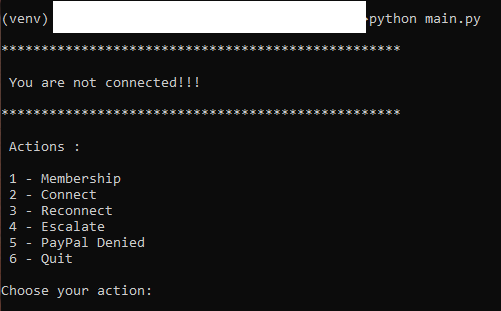
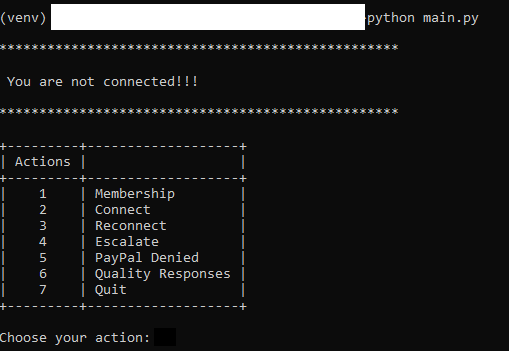
readme and small corrections

diff --git a/paypal_denied.py b/paypal_denied.py
@@ -7,7 +7,7 @@ language = {
 "MX": ["Mexico", "LifePoints - Pedido de recompensa de PayPal cancelado - "],
 "AR": ["Argentina", "LifePoints - Pedido de recompensa de PayPal cancelado - "],
 "CO": ["Colombia", "LifePoints - Pedido de recompensa de PayPal cancelado - "],
-"PE": ["Pedu", "LifePoints - Pedido de recompensa de PayPal cancelado - "],
+"PE": ["Peru", "LifePoints - Pedido de recompensa de PayPal cancelado - "],
 "US - EN": ["USA - English", "LifePoints - PayPal Reward Order Canceled - "],
 "DE": ["Germany", "LifePoints - PayPal-Prämienbestellung storniert - "],
 "AT": ["Austria", "LifePoints - PayPal-Prämienbestellung storniert - "],
@@ -44,7 +44,7 @@ def paypal_denied(driver, zendesk, cint, tab_zendesk, tab_cint):
                     
                 break
                 
-            print("Please incert correct input!\n")
+            print("Please insert correct input!\n")
             
         if handle == "quit":
             print("See you next time beautiful !!\n")
@@ -73,7 +73,7 @@ def paypal_denied(driver, zendesk, cint, tab_zendesk, tab_cint):
         order_num = input("\n Please insert Order Number:   ")
         order_num.strip()
         if order_num == "":
-            print("\n No order number incerted , canceling operation...\n ")
+            print("\n No order number inserted , canceling operation...\n ")
             continue
         driver.close()
         driver.switch_to.window(tab_zendesk)

diff --git a/membership.py b/membership.py
@@ -20,7 +20,7 @@ def membership_procedure(driver, zendesk, cint, datatool, handle_membership, tab
         psReason = "0"
         while True:
             options = ["y", "n", "quit", "i"]
-            handle = input("Handle thise Ticket ? y / n or quit: ")
+            handle = input("Handle this Ticket ? y / n or quit: ")
             print("")
             if handle in options:
                 if handle == "n":
@@ -29,7 +29,7 @@ def membership_procedure(driver, zendesk, cint, datatool, handle_membership, tab
 
                 break
 
-            print("Please incert correct input!\n")
+            print("Please insert correct input!\n")
 
         if handle == "quit":
             print("See you next time beautiful !!\n")

diff --git a/action.py b/action.py
@@ -25,8 +25,8 @@ class Action:
         return text[0], text[1], text[2]
 
     def attach_to_session(self, executor_url, session_id):
-        ''' First get the "executor_url" "and session_id" , onece you got that info keep the browser session oppened 
-            than you can attach to that session while the browser session is oppened. 
+        ''' First get the "executor_url" "and session_id" , onece you got that info keep the browser session opened
+            than you can attach to that session while the browser session is opened.
             
             executor_url = driver.command_executor._url 
             session_id = driver.session_id  '''

diff --git a/handle.py b/handle.py
@@ -90,7 +90,7 @@ class HandleTicket:
                 reactivated = False
 
         while True:
-            if not reactivated:
+            if reactivated == False:
                 break
             inp = input(" Reactivate panelist ?  y / n : ")
             print("")

diff --git a/README.md b/README.md
@@ -56,4 +56,10 @@ For the escalation process you need to choose 10 ticket with a particular issue 
 
 ![](img/8.png)
 
+#### - PayPal Denied
 
+Creates a ticket from scratch by completing all the necessary information to notify the user that their paypal order has been canceled.
+
+#### - Quality Responses
+
+It receives as input an excel file from which it reads the ticket numbers and the answer to each ticket, then enters each ticket and automatically responds to all the tickets in the file.
